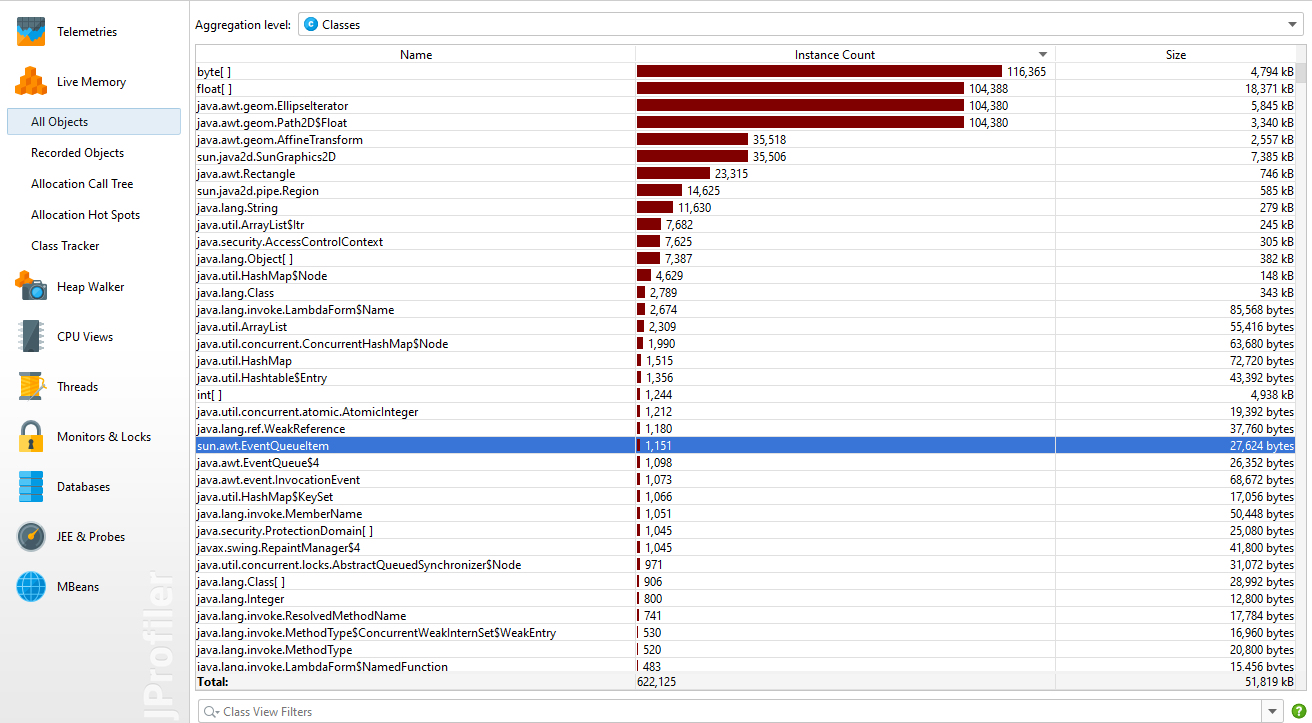
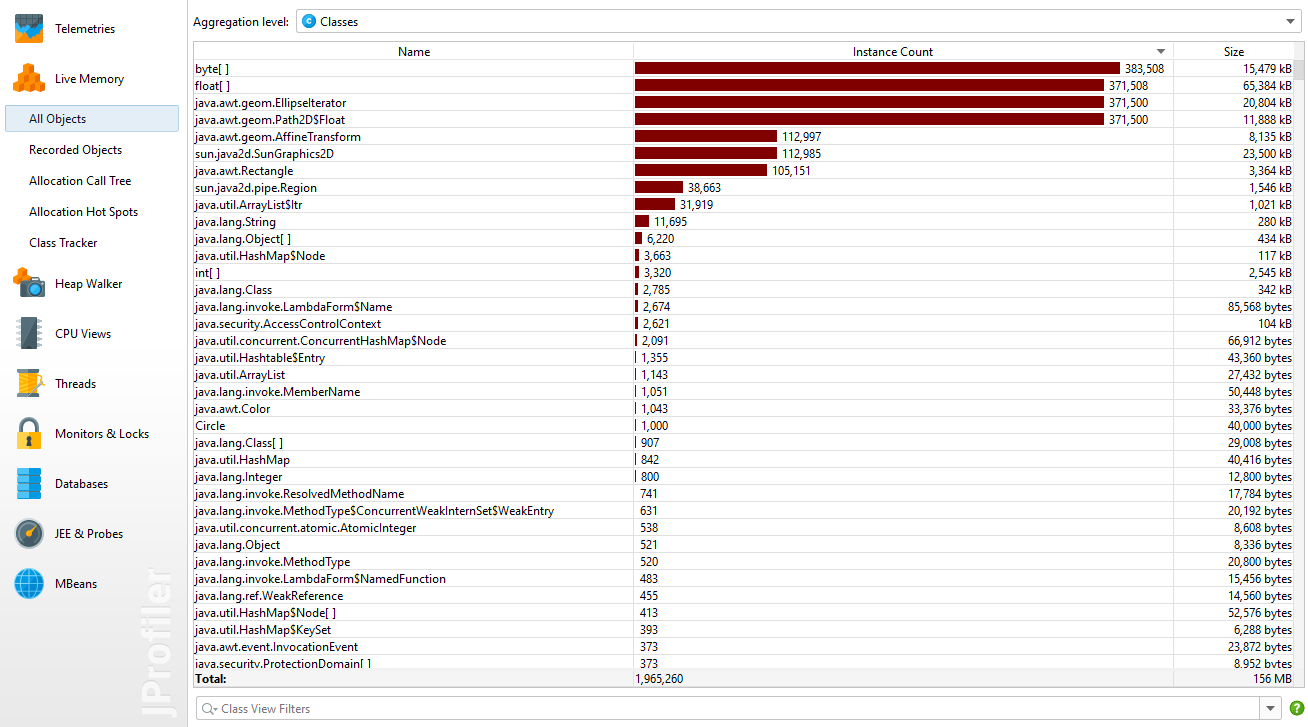
update README.md file

Changed region(s): [[0.0, 0.0, 1.0, 1.0], [0.0, 0.0, 0.0917, 0.0609], [0.8869, 0.3651, 0.9174, 0.3956]]

diff --git a/README.md b/README.md
@@ -9,7 +9,8 @@ Used:
 - JFrame class
 - JPanel class
 
-The application is implemented for 2 cases: single-thread and multi-thread. Below it's presented comparison from JProfiler for both versions. 
+The application is implemented for 3 cases: single-thread, multi-thread and multi-thread using Executor Service.  
+Below it's presented comparison for 1000 circles, from JProfiler plugin, for those versions. 
 
 ### Overview usage:  
 Single mode:  
@@ -20,6 +21,10 @@ Multi mode:
 
 ![](resources/images/multi_overview.png)
 
+Executor Service mode:
+
+![](resources/images/executor_overview.png)
+
 ### Memory usage:  
 Single mode:  
 
@@ -28,6 +33,10 @@ Single mode:
 Multi mode:
 
 ![](resources/images/multi_memory.png)
+
+Executor Service mode:
+
+![](resources/images/executor_memory.png)
 
 ### Live memory usage:  
 Single mode:  
@@ -38,6 +47,10 @@ Multi mode:
 
 ![](resources/images/multi_live_memory.png)
 
+Executor Service mode:
+
+![](resources/images/executor_live_memory.png)
+
 ### Thread history:  
 Single mode:  
 
@@ -47,6 +60,10 @@ Multi mode:
 
 ![](resources/images/multi_thread_history.png)
 
+Executor Service mode:
+
+![](resources/images/executor_thread_history.png)
+
 ### Call Tree:  
 Single mode:  
 
@@ -54,6 +71,10 @@ Single mode:
 
 Multi mode:
 
-![](resources/images/mulri_call_tree.png)
+![](resources/images/multi_call_tree.png)
+
+Executor Service mode:
+
+![](resources/images/executor_call_tree.png)
 
 
